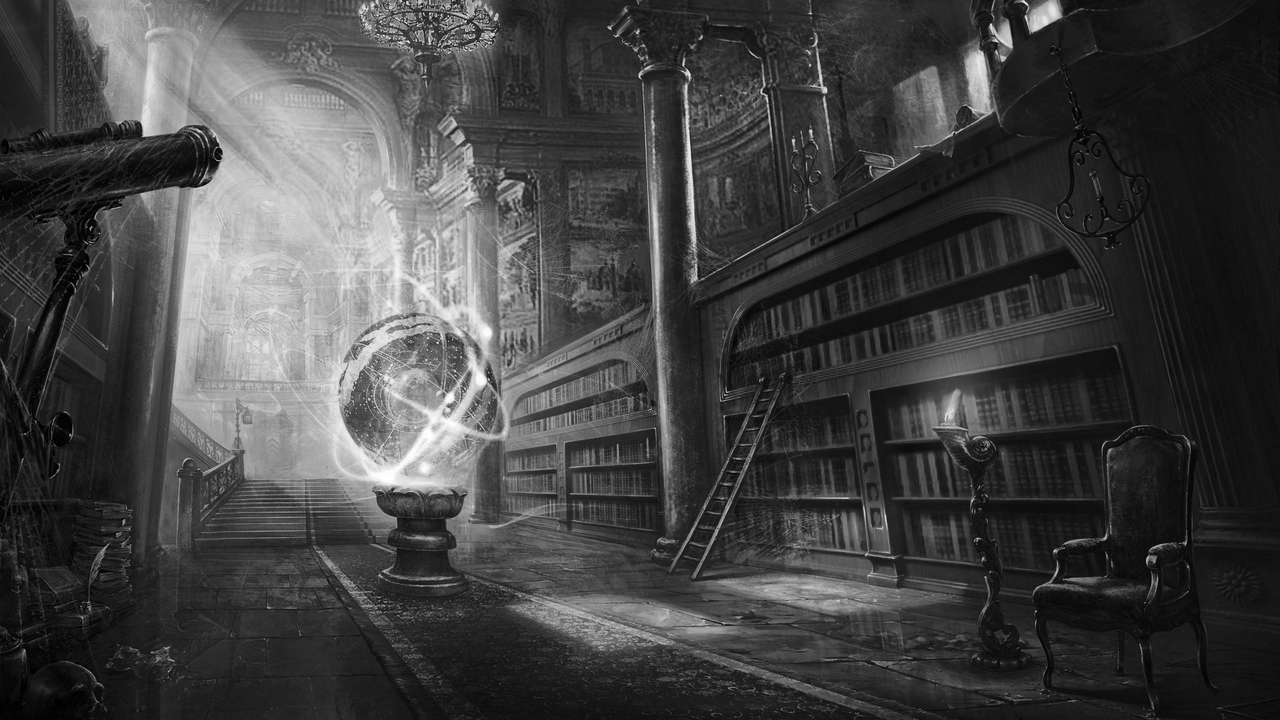
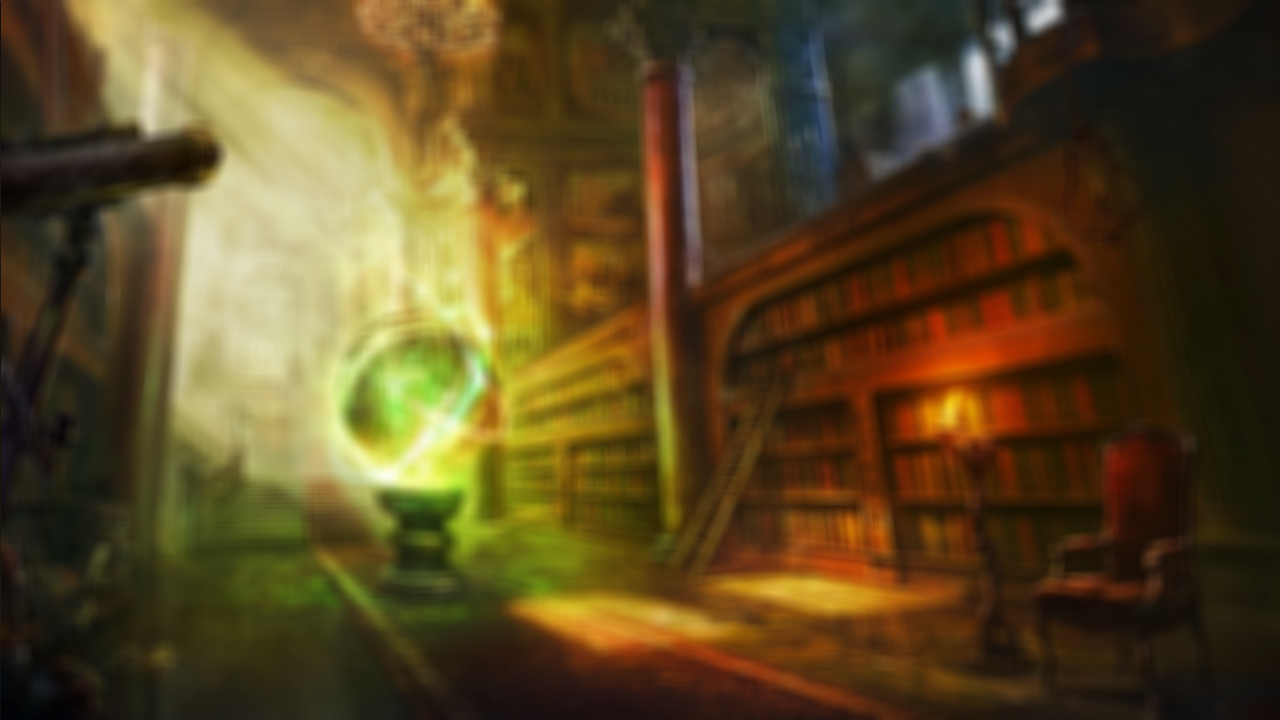
blur-effect version lenta paralelizada
gcc blur-effect.c -o blur-effect -lm -lpthread
./blur-effect 720.jpg o.jpg 15 4

diff --git a/Practica 1/blur-effect.c b/Practica 1/blur-effect.c
@@ -1,10 +1,19 @@
 #include <stdio.h>
 #include <stdlib.h>
+#include <unistd.h>
+#include <pthread.h>
 
 #define STB_IMAGE_IMPLEMENTATION
 #include "stb_image/stb_image.h"
 #define STB_IMAGE_WRITE_IMPLEMENTATION
 #include "stb_image/stb_image_write.h"
+
+int k;
+int w, h, channels;
+unsigned char *img;
+unsigned char* blur;
+int threadNum;
+int kS;
 
 int mirror(int a, int N){
     if(a < 0) return -a - 1;
@@ -12,41 +21,13 @@ int mirror(int a, int N){
     else return a;    
 }
 
-int main(int argc,char *argv[]){
-    //Lectura de argumentos -------
-    char *inputFile = argv[1];
-    char *outputFile = argv[2];
-    int kS = atoi(argv[3]); //Kernel size
-    int threadNum = atoi(argv[4]);
+void *calcColumn(void *arg){
+    int threadId = *(int *)arg;
+    int start = (w/threadNum) * threadId;
+    int end = start + ((w/threadNum) - 1);
+    if(threadId == threadNum-1) end = start + (w/threadNum);
 
-    int k = (kS - 1) / 2;
-/*  
-    printf("Input file: %s \n",inputFile);
-    printf("Output file: %s \n",outputFile);
-    printf("Kernel size: %i \n",kernelSize);
-    printf("Threads: %i \n",threadNum);
-*/
-
-    //Lectura de la imagen ----------
-    int w, h, channels;
-    unsigned char *img = stbi_load(inputFile, &w, &h, &channels, 0);
-    if(img == NULL){
-        printf("Error leyendo imagen");
-        exit(1);
-    }
-    printf("Image read: %s - Width: %i ,Height: %i ,Channels: %i\n",inputFile,w,h,channels);
-
-    //Modificación imagen a una nueva
-    size_t img_size = w * h * channels;
-    
-    unsigned char* blur = malloc(img_size);
-    if(blur == NULL){
-        printf("Error creando nueva imagen (malloc) (F)");
-        exit(1);
-    }
-    
-    //Vertical Blur
-    for (int cx = 0; cx < w; cx ++){
+    for (int cx = start; cx <= end; cx ++){
         for (int cy = 0; cy < h; cy ++){
             int R = 0;
             int G = 0;
@@ -73,12 +54,92 @@ int main(int argc,char *argv[]){
                 B+= sB/kS;
             }
 
-            *(blur0 + channels*( cx + cy*w ))       = R/kS;
-            *(blur0 + channels*( cx + cy*w ) + 1)   = G/kS;
-            *(blur0 + channels*( cx + cy*w ) + 2)   = B/kS;
+            *(blur + channels*( cx + cy*w ))       = R/kS;
+            *(blur + channels*( cx + cy*w ) + 1)   = G/kS;
+            *(blur + channels*( cx + cy*w ) + 2)   = B/kS;
         }
     }
+    return 0;
+}
 
+int main(int argc,char *argv[]){
+    //Lectura de argumentos -------
+    char *inputFile = argv[1];
+    char *outputFile = argv[2];
+    //int kS; GLOBAL
+    kS = atoi(argv[3]); //Kernel size
+    //int threadNum; GLOBAL
+    threadNum = atoi(argv[4]);
+
+    //int k; GLOBAL
+    k = (kS - 1) / 2;
+
+    //Lectura de la imagen ----------
+    //int w, h, channels; GLOBAL
+    //unsigned char *img; GLOBAL
+    img = stbi_load(inputFile, &w, &h, &channels, 0);
+    if(img == NULL){
+        printf("Error leyendo imagen");
+        exit(1);
+    }
+    //printf("Image read: %s - Width: %i ,Height: %i ,Channels: %i\n",inputFile,w,h,channels);
+
+    //Modificación imagen a una nueva
+    size_t img_size = w * h * channels;
+    
+    //unsigned char* blur; GLOBAL
+    blur = malloc(img_size);
+    if(blur == NULL){
+        printf("Error creando nueva imagen (malloc blur) (F)");
+        exit(1);
+    }
+    
+    //Vertical Blur
+    /*for (int cx = 0; cx < w; cx ++){
+        for (int cy = 0; cy < h; cy ++){
+            int R = 0;
+            int G = 0;
+            int B = 0;
+
+            for( int j = -k; j<= k ; j++){
+                
+                int sR = 0;
+                int sG = 0;
+                int sB = 0;
+
+                int ny = mirror(cy + j, h);
+                
+                for( int i = -k; i<= k ; i++){
+                    
+                    int nx = mirror(cx + i, w);
+                    sR+= (uint8_t) *(img + channels*( nx + ny*w ));
+                    sG+= (uint8_t) *(img + channels*( nx + ny*w ) + 1);
+                    sB+= (uint8_t) *(img + channels*( nx + ny*w ) + 2);
+
+                }
+                R+= sR/kS;
+                G+= sG/kS;
+                B+= sB/kS;
+            }
+
+            *(blur + channels*( cx + cy*w ))       = R/kS;
+            *(blur + channels*( cx + cy*w ) + 1)   = G/kS;
+            *(blur + channels*( cx + cy*w ) + 2)   = B/kS;
+        }
+    }*/
+
+    int threadId[threadNum], i ,*retval;
+
+    pthread_t thread[threadNum];
+
+    for(i = 0; i < threadNum; i++){
+        threadId[i] = i;
+        pthread_create(&thread[i], NULL, (void *)calcColumn, &threadId[i]);    
+    }
+
+    for(i = 0; i < threadNum; i++){
+        pthread_join(thread[i], (void **)&retval);
+    }
 
     //Escritura imagen nueva
     stbi_write_jpg(outputFile, w, h, channels, blur, 100);
